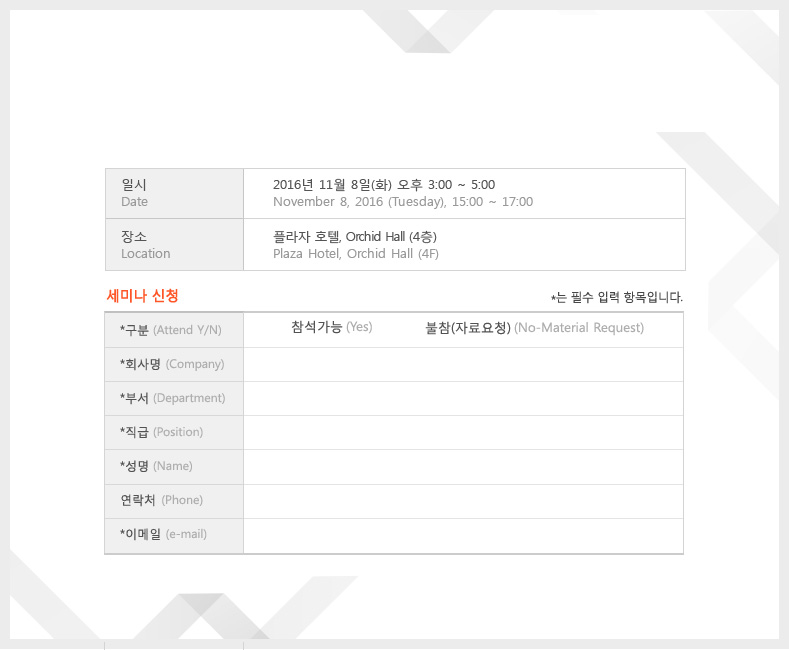
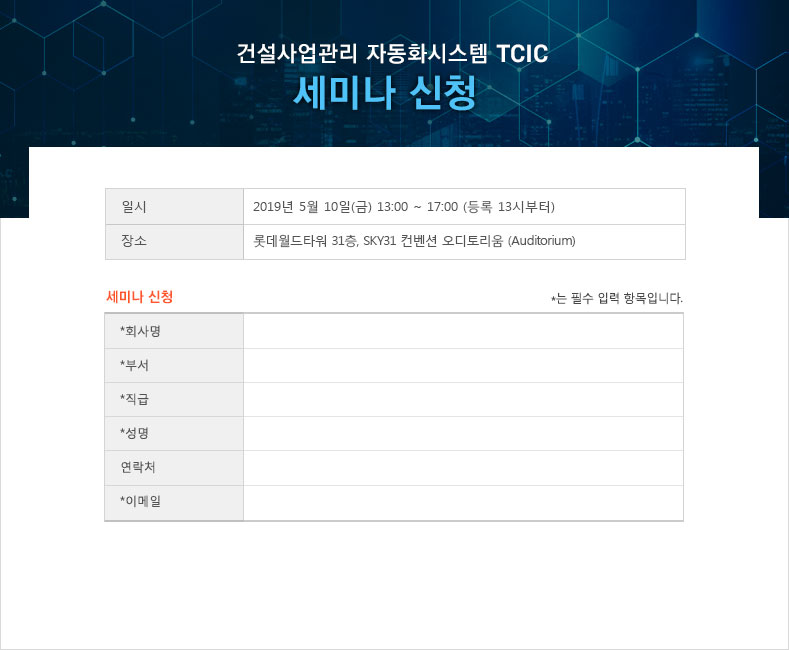
update for tcic seminar

diff --git a/static/seminar-apply.html b/static/seminar-apply.html
@@ -1,192 +1,147 @@
 <!DOCTYPE html>
-<html ng-app="seminar">
-
+<html xmlns="http://www.w3.org/1999/xhtml" ng-app="seminar">
 <head>
-	<title>SangaAh Seminar Registration</title>
+<meta http-equiv="Content-Type" content="text/html; charset=utf-8"/>
+    <title>TCIC 세미나 신청</title>
+    <style>
 
-	<meta http-equiv="X-UA-Compatible" content="IE=Edge"/>
-	<meta http-equiv="Content-Type" content="text/html; charset=utf-8" />
-	 
-<link rel="stylesheet" href="/ext/style/COMMON/css/font-awesome.min.css">
+        .wrap{
+            width:788px;
+            position:absolute;
+            font-family:'Malgun Gothic';
+            font-size:12pt;
+            left:50%;
+            top:50%;
+            margin-left:-369px;
+            margin-top:-326px;
+        }
 
-<style>
-article,aside,details,figcaption,figure,footer,header,hgroup,menu,nav,section {
-display:block;
-}
+        .comment{
+            width:100%;
+            position:absolute;
+            top:40px;
+            text-align:center;
+        }
 
-li {
-list-style-type:none;
-}
+        .comment h1{
+            color:#5CA5DA;
+        }
 
-html,body,div,span,object,h1,h2,h3,h4,h5,h6,p,blockquote,pre,abbr,address,cite,code,del,dfn,em,img,ins,kbd,q,samp,small,strong,sub,sup,var,b,i,dl,dt,dd,ol,ul,li,fieldset,form,label,legend,table,caption,tbody,tfoot,thead,tr,th,td,article,aside,canvas,details,figcaption,figure,footer,header,hgroup,menu,nav,section,summary,time,mark,audio,video {
-margin:0;
-padding:0;
-}
+        .comment h4 { 
+            color:#515151;
+            margin-top:5px;
+        }
 
-.ng-invalid.ng-dirty,
-.ng-invalid-required {
-border-color:#FA787E!important;
-}
+        .comment h2 {
+            margin-top:-5px; 
+            color:#FF5A00
+        }
 
-.ng-valid.ng-dirty {
-border-color:#78FA89!important;
-}
 
-.wrap{
-width:788px;
-position:absolute;
-font-family:'Malgun Gothic';
-font-size:12pt;
-left:50%;
-top:50%;
-margin-left:-369px;
-margin-top:-326px;
+        .formWrap{
+            position:absolute;
+            width:360px;
+            height:240px;
+            left:274px;
+            top:312px;
+        }
 
-}
+        .formWrap ul{
+            height:100%;
+        }
 
-.comment {
-position:absolute;
-text-align:center;
-top:40px;
-width:100%;
-}
+        .formWrap li{
+            height:14.4%;
+            position:relative;
+        }
 
-.comment h1{
-color:#5CA5DA;
-}
+        .formWrap input[type=text]{
+            position:absolute;
+            border:1px solid #CCC;
+            bottom:50%;
+            height:30%;
+            width:98%;
+            padding:1%;
+            transform:translate(0%, 50%);
+            -ms-transform: translate(0%, 50%);
+            -webkit-transform:translate(0%, 50%);
+            -o-transform:translate(0%, 50%);  
+        }
 
-.comment h4 { 
-color:#515151;
-margin-top:5px;
-}
+        .formWrap input[type=radio]{
+            position:absolute;
+            top:9px;
+            margin:0;
+        }
 
-.comment h2 {
-margin-top:13px; 
-line-height:24px;
-color:#FF5A00
-}
+        .formWrap input[type=radio]:last-child{
+            left:135px;
+        }
 
-.formWrap {
-height:240px;
-left:274px;
-position:absolute;
-top:312px;
-width:360px;
-}
+        .formWrap input[type=button]{
+            margin-top:20px;
+            width:115px;
+            height:40px;
+            border:0;
+            border-bottom:3px solid #5C5C5C;
+            background-color: #909090;
+            color:#FFF;
+            cursor:pointer;
+            font-family:'Malgun Gothic';
+        }
 
-.formWrap ul {
-height:100%;
-}
 
-.formWrap li {
-height:14.4%;
-position:relative;
-}
+        .formWrap input[type=button]:hover{
+            background-color:#FF5A00;
+            border-bottom:3px solid #E02900;
+            background-color: ##FF5A00;
+        }
 
-.formWrap input[type=text],.formWrap input[type=email] {
-border:1px solid #CCC;
-padding:1%;
-width:98%;
-margin-top:5px;
-}
+        .formWrap input[type=button]:first-of-type{
+            margin-left:20px;
+        }
 
-.formWrap input[type=radio] {
-margin:0;
-padding:0;
-position:absolute;
-top:9px;
-}
 
-/*.formWrap input[type=radio]:last-child,*/
-.formWrap input[type=radio].second {
-left:135px;
-}
+        article, aside, details, figcaption, figure, footer, header, hgroup, menu, nav, section {  display: block; }
 
-.formWrap input[type=button] {
-background-color:#909090;
-border:0;
-border-bottom:3px solid #5C5C5C;
-color:#FFF;
-cursor:pointer;
-height:40px;
-margin-top:20px;
-width:115px;
-}
+        li { list-style-type:none; }
 
-.formWrap input[type=button]:hover {
-background-color:#FF5A00;
-border-bottom:3px solid #E02900;
-}
+        html,body,div,span,object,h1,h2,h3,h4,h5,h6,p,
+        blockquote,pre,abbr,address,cite,code,del,dfn,em,img,
+        ins,kbd,q,samp,small,strong,sub,sup,var,b,i,dl,dt,dd,ol,ul,li,
+        fieldset,form,label,legend,table,caption,tbody,tfoot,thead,tr,th,td,
+        article,aside,canvas,details,figcaption,figure,footer,header,hgroup,
+        menu,nav,section,summary,time,mark,audio,video{margin:0; padding:0;}
 
-buttons{
-margin-left:20px;
-}
+    </style>
 
-.success-msg{
-position: absolute;
-top: 17px;
-text-align: center;
-color: #358C00;
-font-weight: 700;
-width: 100%;
-}
-</style>
-
-	<!--
-	<script type="text/javascript" src="/ext/script/pmis_loader.js"></script>
-	<script>
-		PmisJsLoader.loadModule("/ext/jquery/js/jquery-1.9.1.min.js");
-		//PmisJsLoader.loadModule("Functionsml.js");
-	</script>
-	-->
-	
-	<script type="text/javascript" src="https://code.jquery.com/jquery-1.11.3.min.js"></script>
-	
-	<!-- https://docs.angularjs.org/guide/ie -->
-	<script type="text/javascript" src="https://ajax.googleapis.com/ajax/libs/angularjs/1.2.29/angular.min.js"></script>
-	
-	<script type="text/javascript" src="seminar-apply.js?v3"></script>
+    <script type="text/javascript" src="https://code.jquery.com/jquery-1.11.3.min.js"></script>
+    <script type="text/javascript" src="https://ajax.googleapis.com/ajax/libs/angularjs/1.2.29/angular.min.js"></script>
+    <script type="text/javascript" src="seminar-apply.js?v3"></script>
 
 </head>
-
 <body>
-	<div class="wrap" ng-controller="ApplyController as ctrl">
-		<div class="comment">
-			<h1>ACONEX 세미나 신청</h1>
-			<h2>Collaborative project controls and </br>COST management</h2>
-		</div>
-		<div class="success-msg" ng-show="ctrl.saved"><i class="fa fa-check-square-o fa-lg"></i> {{ctrl.successMessage}}</div>
-		<form name="applyForm" class="formWrap" ng-submit="ctrl.apply(applyForm)" novalidate>
-			<input type="hidden" name="event" ng-model="ctrl.reg.event" >
-			<blockquote style="display: none;">
-				{{ctrl.reg.company}}
-			</blockquote>
-			<ul>
-				<li>
-					<input type="radio" ng-model="ctrl.reg.attend" value="Y" required="" />
-					<input type="radio" ng-model="ctrl.reg.attend" value="N" required="" class="second" />
-				</li>
-				<li>
-					<input type="text" ng-model="ctrl.reg.company" required="" ng-maxlength="300">
-				</li>
-				<li>
-					<input type="text" ng-model="ctrl.reg.department" required="" ng-maxlength="300">
-				</li>
-				<li><input type="text" ng-model="ctrl.reg.position" required="" ng-maxlength="100"></li>
-				<li><input type="text" ng-model="ctrl.reg.name" required="" ng-maxlength="300"></li>
-				<li><input type="text" ng-model="ctrl.reg.phone" ng-maxlength="20"></li>
-				<li><input type="email" ng-model="ctrl.reg.email" required="" ng-maxlength="100"></li>
-			</ul>
-            <buttons>
-                <input type="button" ng-click="ctrl.apply(applyForm)" value="신청(Y)" />
-                <input type="button" ng-click="ctrl.cancel(applyForm)" value="취소(C)" />
-            </buttons>
-		</form>
-		<div style="font-family: 돋움,dotum; font-size: 10pt;">
-			<img src="images/form_bg.jpg?v4" border="0" usemap="#Map">
-		</div>
-	</div>
-	
+    <div class="wrap" ng-controller="ApplyController as ctrl">
+        <div class="comment"></div>
+        <form class="formWrap">
+            <ul>
+                <li>
+                    <input type="text" ng-model="ctrl.reg.company" required="" ng-maxlength="300">
+                </li>
+                <li>
+                    <input type="text" ng-model="ctrl.reg.department" required="" ng-maxlength="300">
+                </li>
+                <li><input type="text" ng-model="ctrl.reg.position" required="" ng-maxlength="100"></li>
+                <li><input type="text" ng-model="ctrl.reg.name" required="" ng-maxlength="300"></li>
+                <li><input type="text" ng-model="ctrl.reg.phone" ng-maxlength="20"></li>
+                <li><input type="email" ng-model="ctrl.reg.email" required="" ng-maxlength="100"></li>
+            </ul>
+            <input type="button" ng-click="ctrl.apply(applyForm)" value="신청" />
+            <input type="button" ng-click="ctrl.cancel(applyForm)" value="취소" />
+        </form>
+        <div style="font-family: 돋움,dotum; font-size: 10pt;">
+            <img src="images/form_bg.jpg?v4" border="0" usemap="#Map">
+        </div>
+    </div>
 </body>
-
 </html>

diff --git a/static/seminar-apply.js b/static/seminar-apply.js
@@ -12,7 +12,7 @@
 		
 		self.initdata = {
 			attend: "Y", // default value
-			event: "ACX - Collaborative Project Controls & Cost Management Nov 11, 2016"
+			event: "TCIC 2019/5 세미나"
 		};
 		self.reg = {};
 		self.saved = false;

diff --git a/static/index.html b/static/index.html
@@ -1,0 +1,1 @@
+ciao
